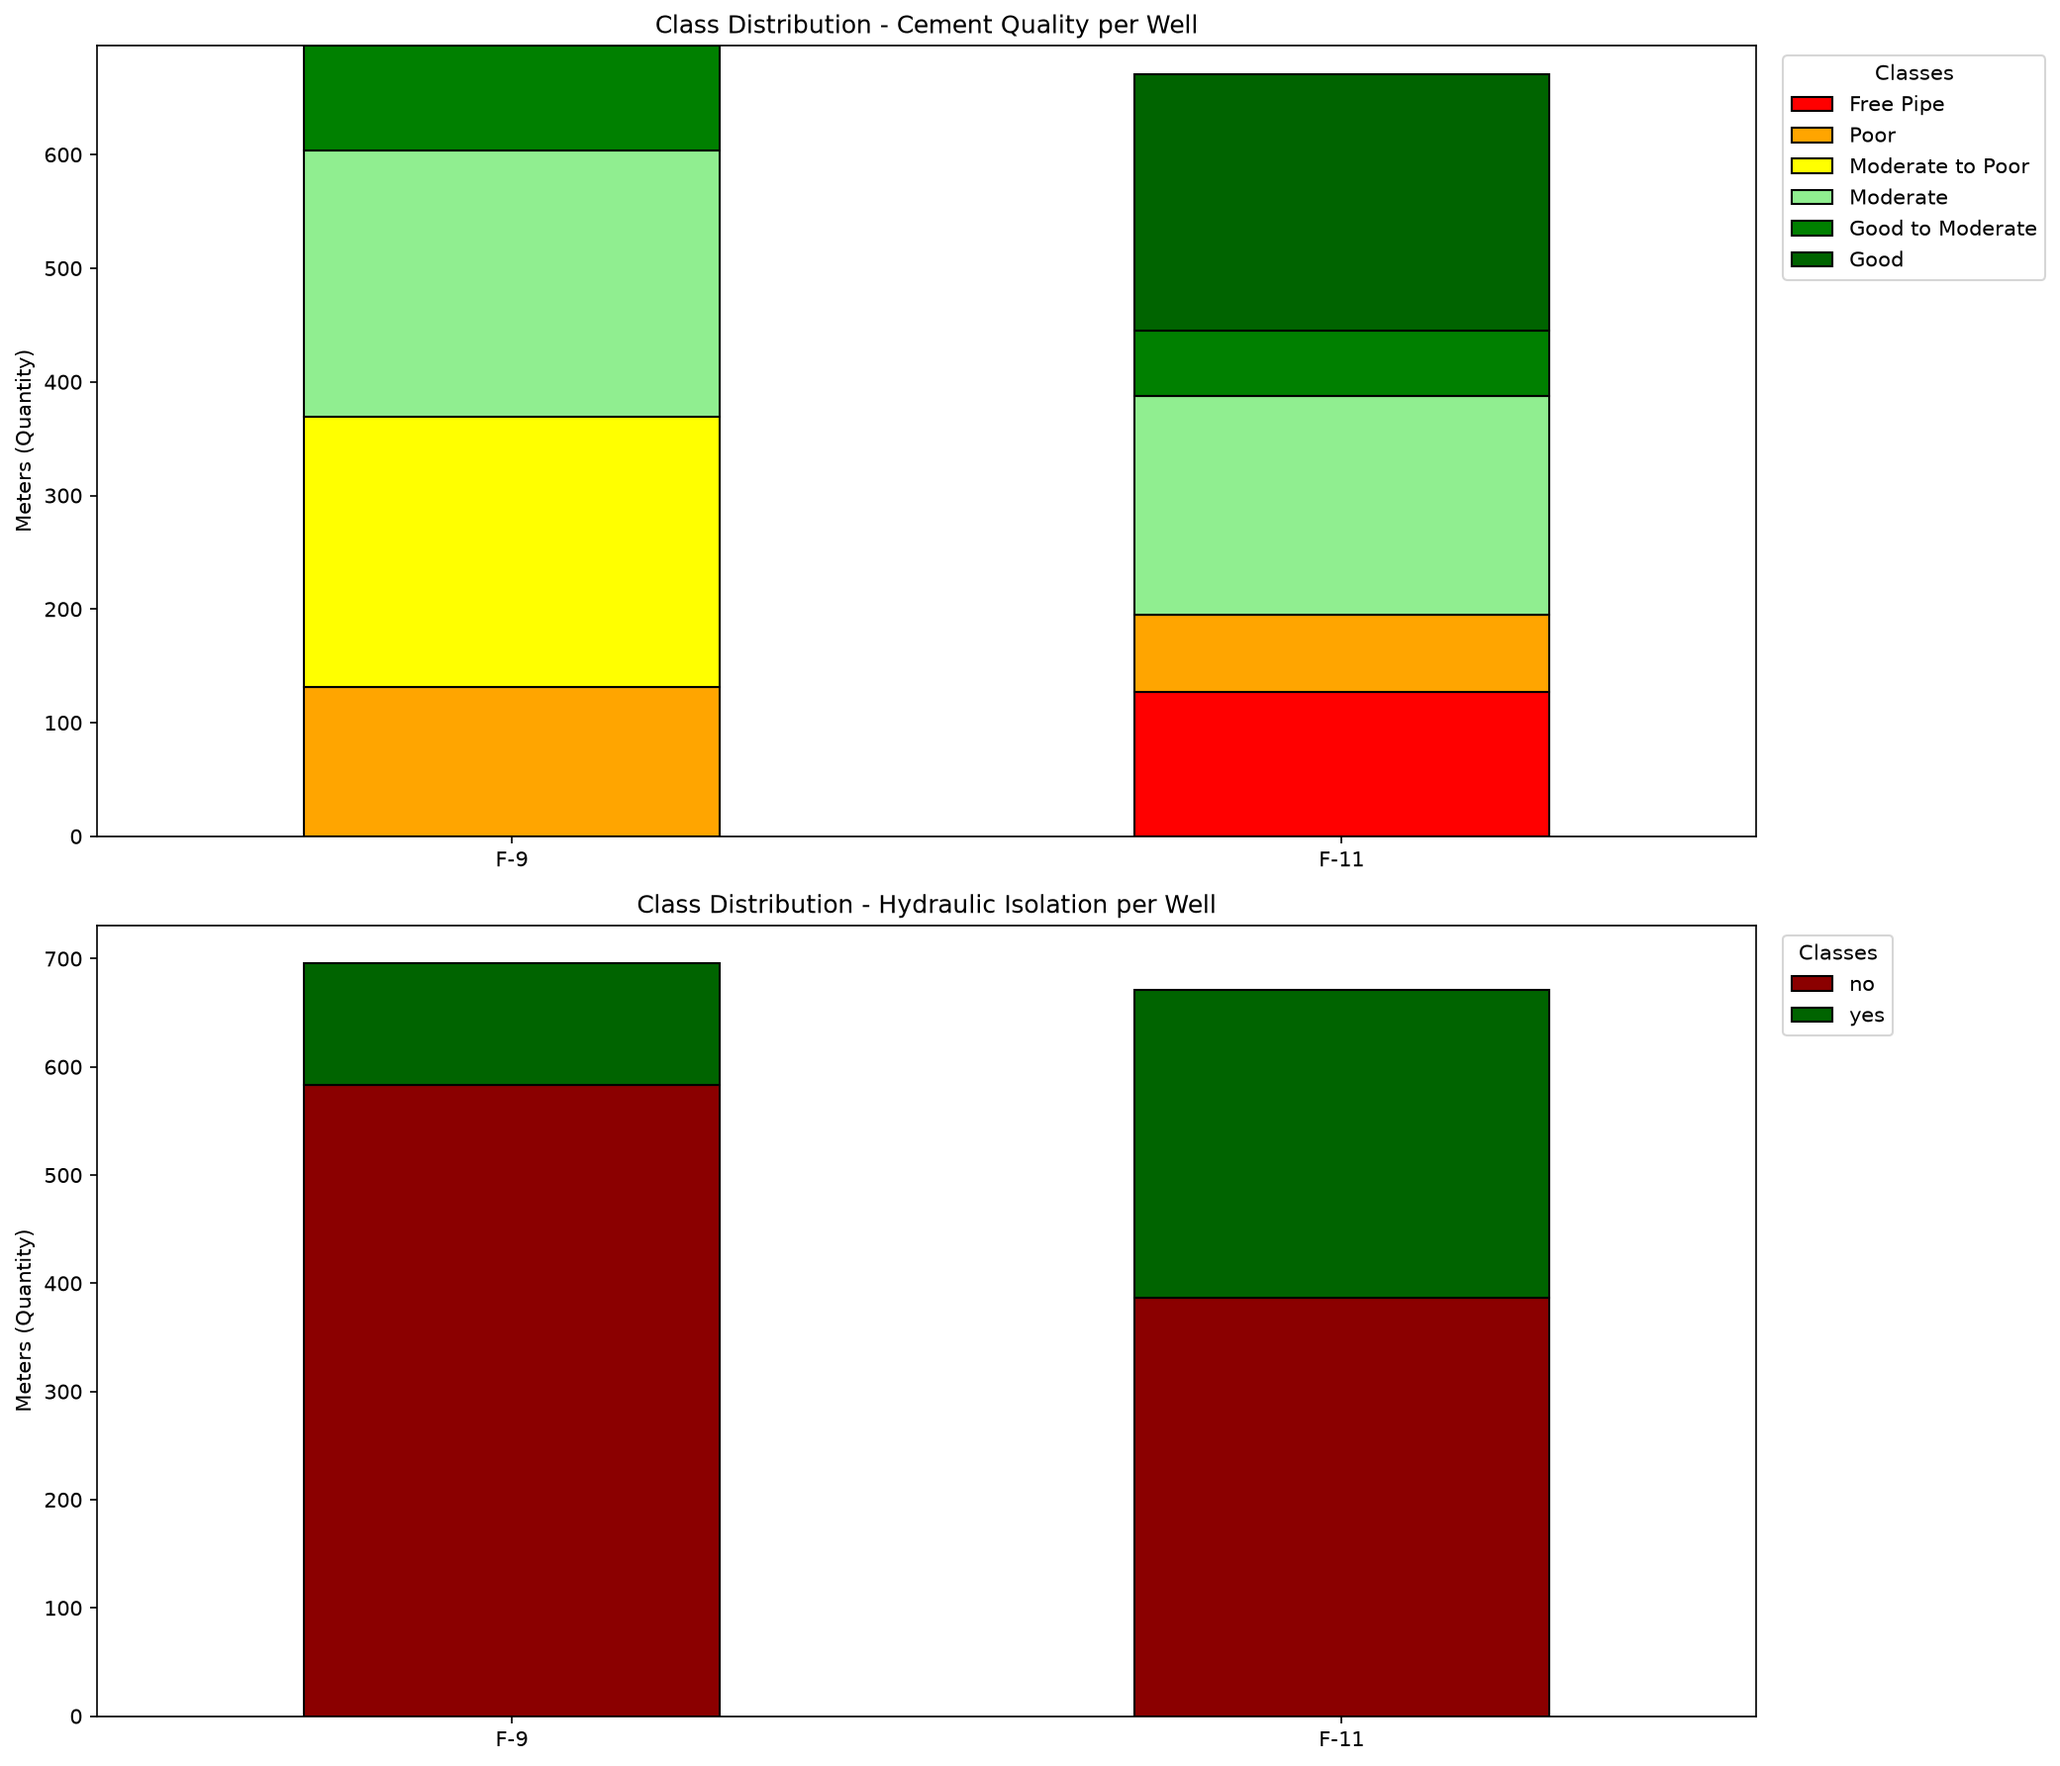
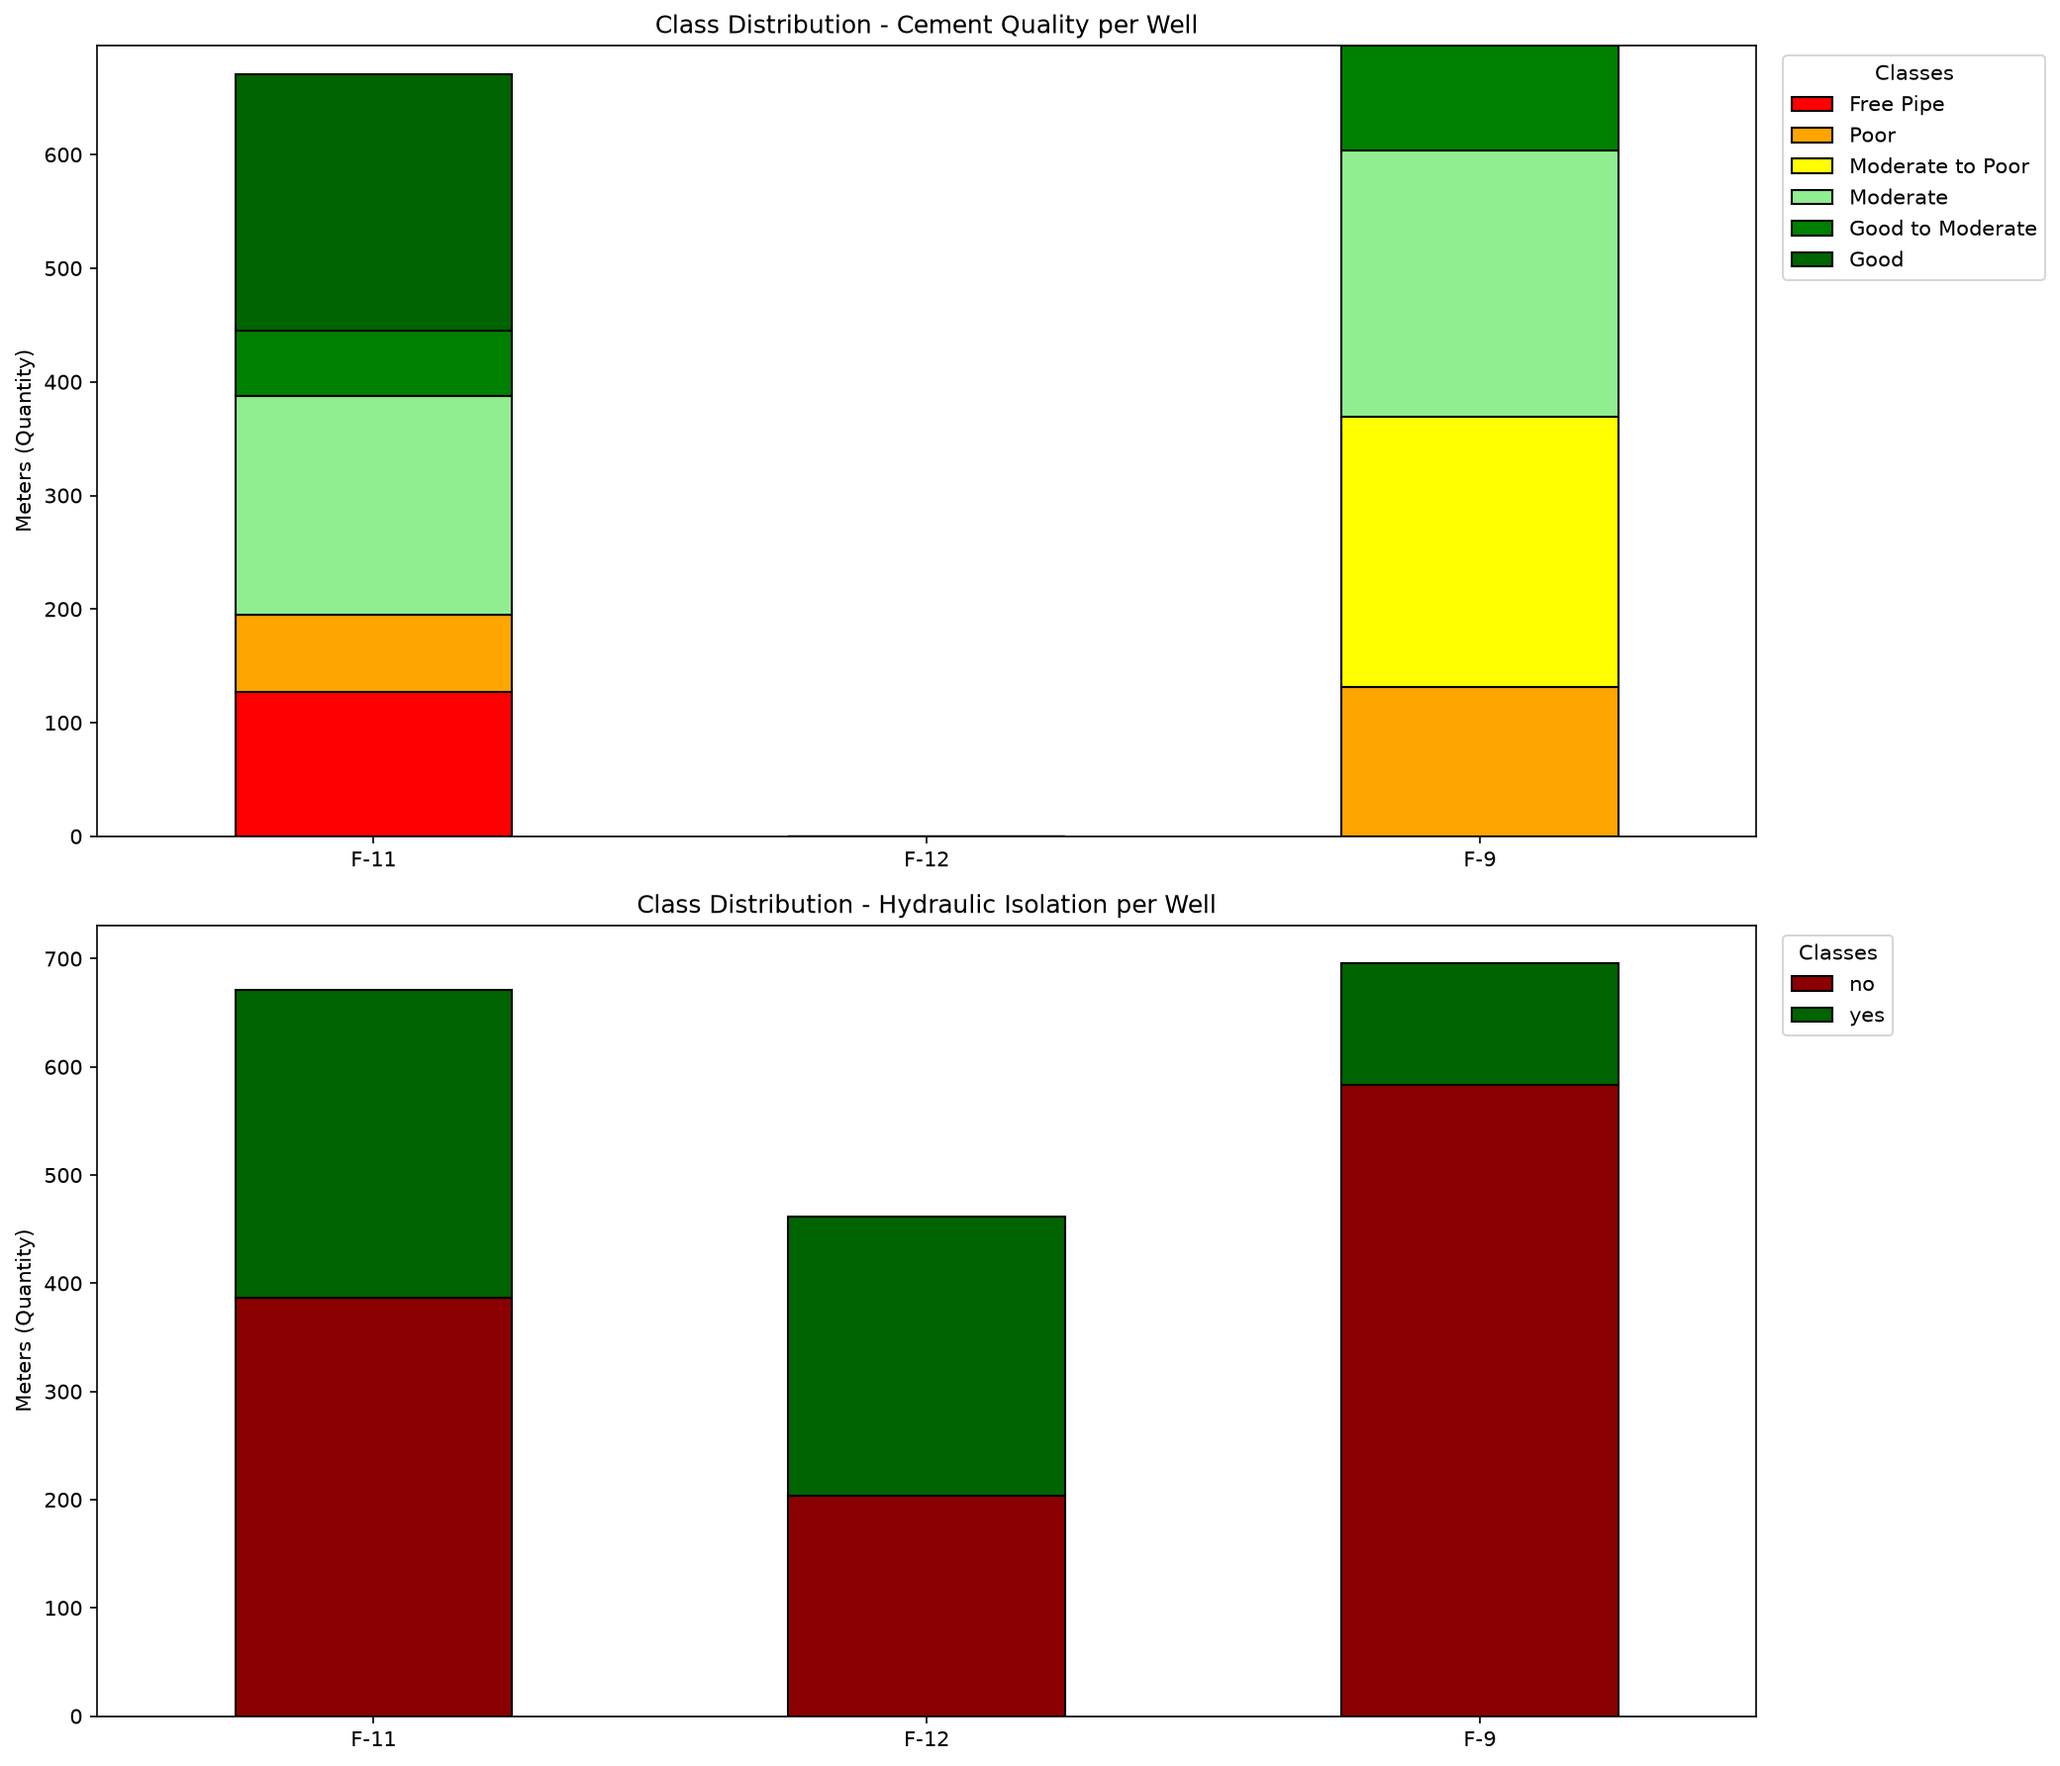
fix: adding well F-12

diff --git a/data_loader.py b/data_loader.py
@@ -27,10 +27,14 @@ class WellDataset:
 
         self.df = pd.merge(
             self.df_cq,
-            self.df_hi[['Well', 'Depth', self.hi_label_col]],
+            self.df_hi[['Well', 'Depth', 'Path', self.hi_label_col]],
             on=['Well', 'Depth'],
-            how='inner'
+            how='outer'
         )
+
+        if 'Path_x' in self.df.columns and 'Path_y' in self.df.columns:
+            self.df['Path'] = self.df['Path_x'].fillna(self.df['Path_y'])
+            self.df = self.df.drop(columns=['Path_x', 'Path_y'])
 
         print(f"Dataset loaded with {len(self.df)} total records from {self.df['Well'].nunique()} wells.")
 
